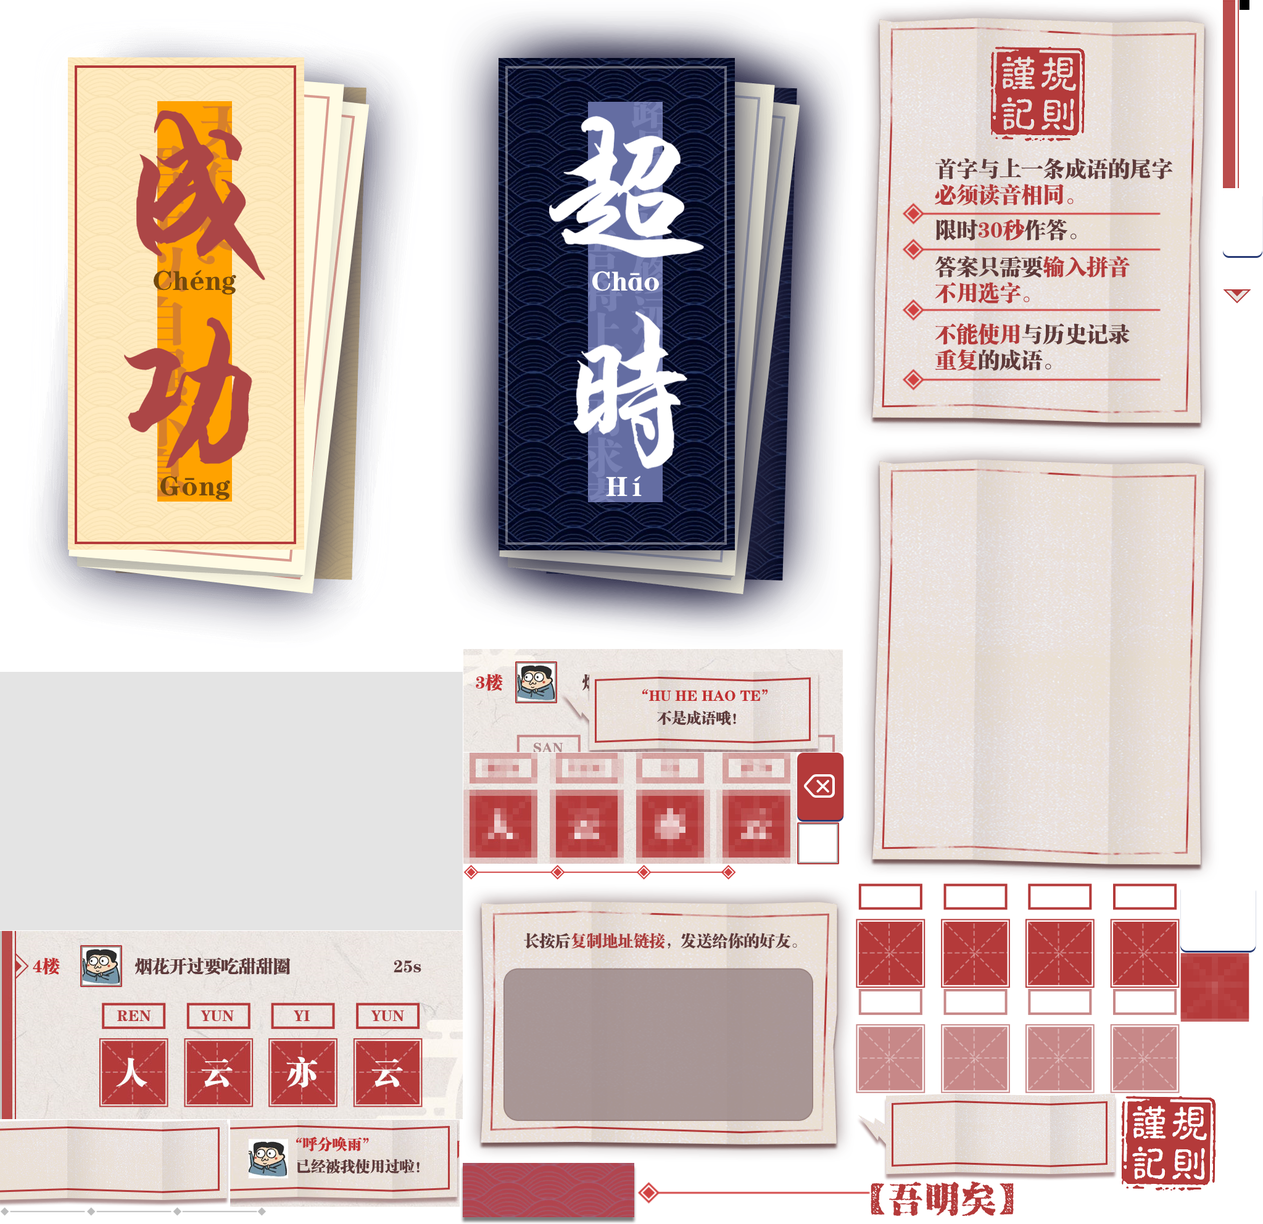
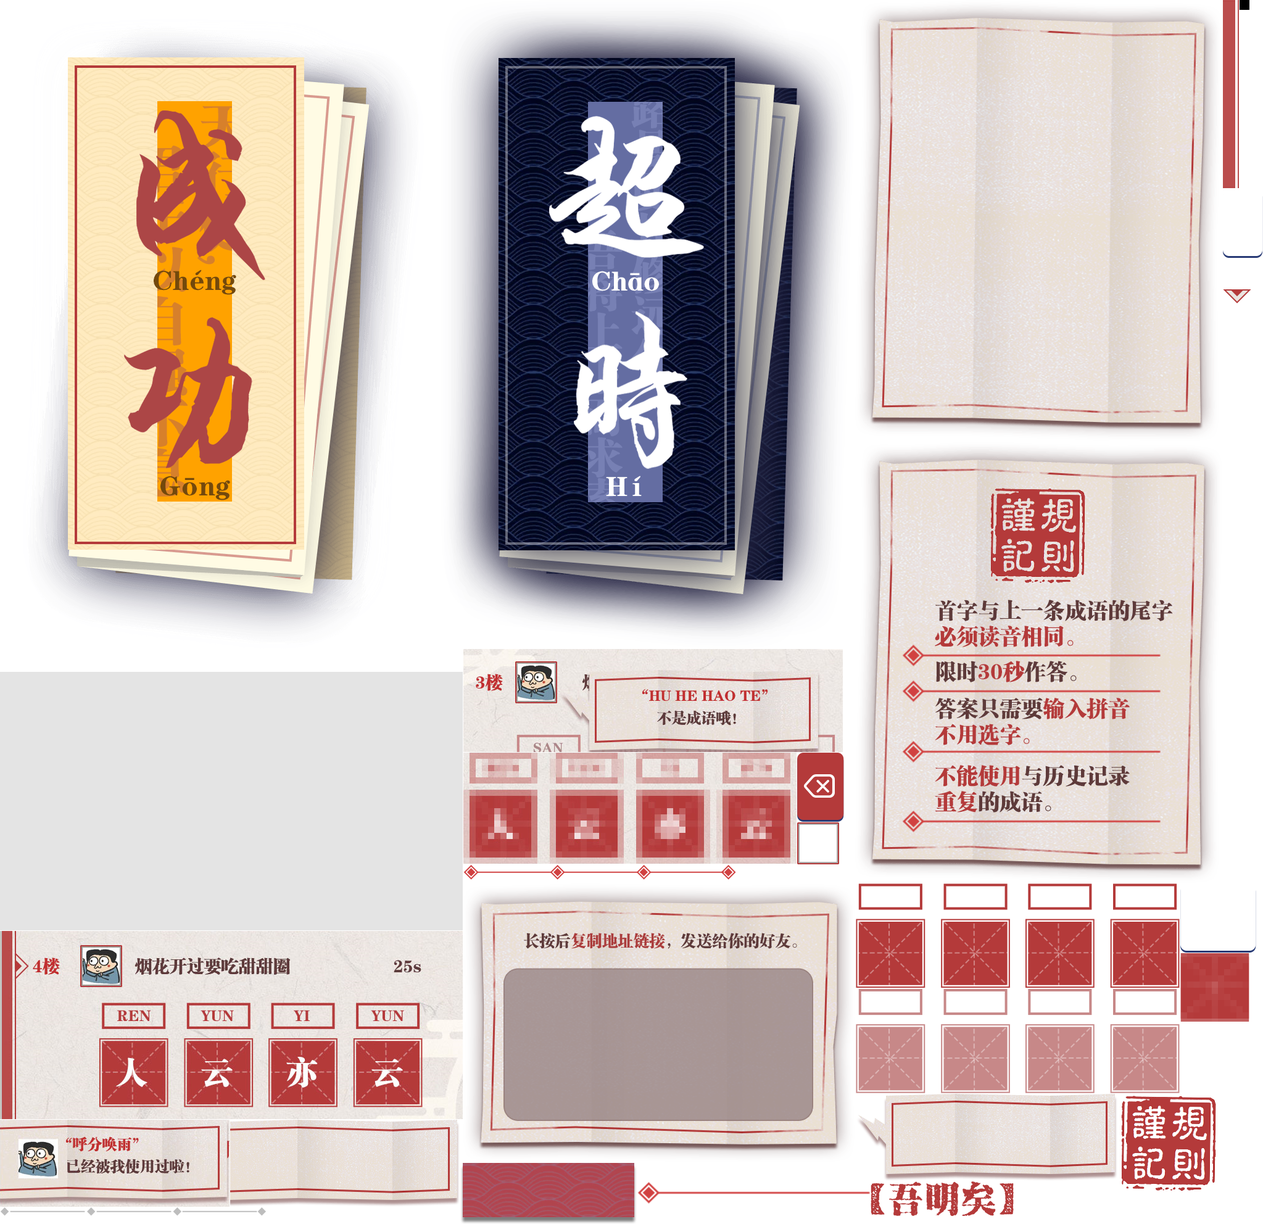
整体导出

Changed region(s): [[0.7079, 0.375, 0.9233, 0.6875], [0.7079, 0.0312, 0.9233, 0.3125], [0.0, 0.9062, 0.3693, 1.0]]

diff --git a/src/ui/layaUI.max.all.js b/src/ui/layaUI.max.all.js
@@ -104,10 +104,11 @@ var main_uiUI=(function(_super){
 
 			laya.ui.Component.prototype.createChildren.call(this);
 			this.createView(main_uiUI.uiView);
-
 		}
 
-		main_uiUI.uiView={"type":"View","props":{"width":750,"height":1334},"child":[{"type":"Image","props":{"y":0,"x":0,"skin":"pic/background.png"}},{"type":"Panel","props":{"y":142,"x":0,"width":750,"var":"pan_mytopic","height":860},"child":[{"type":"words","props":{"y":168,"x":115,"var":"lasttopicpanel","runtime":"ui.wordsUI"}},{"type":"View","props":{"y":164,"x":109,"var":"lasttopicPanel_unshown"},"child":[{"type":"Image","props":{"skin":"pic/lasttopic_unshown.png"}},{"type":"Label","props":{"y":197,"x":154,"text":"开始答题后揭晓","fontSize":30,"color":"#5d343a","bold":true,"align":"center"}}]},{"type":"View","props":{"y":430,"x":-4,"width":750,"height":123},"child":[{"type":"words","props":{"y":204,"x":115,"var":"topicpanel","runtime":"ui.wordsUI"}},{"type":"Label","props":{"y":96,"x":57,"var":"your_answer","text":"你的答案：","fontSize":27,"font":"SimSun","color":"#a7433e","bold":true}},{"type":"Label","props":{"y":-44,"x":399,"width":83,"var":"countDownNumber","valign":"middle","text":"30","height":75,"fontSize":80,"font":"SimSun","color":"#a7433e","bold":true,"align":"center"},"child":[{"type":"Label","props":{"y":7,"x":-110,"width":108,"var":"countdown","valign":"middle","text":"倒计时：","height":62,"fontSize":30,"color":"#a7433e","bold":true,"align":"center"}}]}]},{"type":"playerinfo","props":{"y":37,"x":43,"var":"mytopicplayerinfopanel","runtime":"ui.playerinfoUI"}}]},{"type":"game_ui","props":{"y":911,"x":0,"width":750,"var":"keyboard","height":419,"runtime":"ui.game_uiUI"}},{"type":"View","props":{"y":0,"x":0,"width":750,"var":"popup_success","height":1334},"child":[{"type":"Image","props":{"y":0,"x":0,"width":750,"skin":"pic/blackmask.png","height":1334,"alpha":0.8}},{"type":"Image","props":{"y":58,"x":53,"skin":"pic/popup_success.png"}},{"type":"Image","props":{"y":552,"x":65,"var":"shareUrl_dialog","skin":"pic/url_copy.png"},"child":[{"type":"TextInput","props":{"y":152,"x":79,"wordWrap":true,"width":476,"var":"shareUrl","multiline":true,"height":214,"fontSize":20,"editable":true}}]},{"type":"Button","props":{"y":1112,"x":71,"width":286,"var":"btn_share","labelSize":30,"labelFont":"SimSun","labelColors":"#ffffff","labelBold":true,"height":99},"child":[{"type":"Image","props":{"y":0,"x":0,"skin":"pic/button_red.png"}},{"type":"Label","props":{"y":16,"x":6,"width":276,"valign":"middle","text":"邀请好友答题","height":62,"fontSize":30,"font":"SimSun","color":"#fdffff","bold":true,"align":"center"}}]},{"type":"Button","props":{"y":1112,"x":410,"width":286,"var":"btn_rule_success","labelSize":30,"labelColors":"#ffffff","labelBold":true,"height":99},"child":[{"type":"Image","props":{"skin":"pic/button_red.png"}},{"type":"Label","props":{"y":16,"x":4,"width":276,"valign":"middle","text":"规则说明","height":62,"fontSize":30,"font":"SimSun","color":"#fdffff","bold":true,"align":"center"}}]}]},{"type":"View","props":{"y":0,"x":0,"width":750,"var":"popup_overtime","height":1334},"child":[{"type":"Image","props":{"y":10,"x":10,"width":750,"skin":"pic/blackmask.png","height":1334,"alpha":0.8}},{"type":"Image","props":{"y":52,"x":39,"skin":"pic/popup_overtime.png"}},{"type":"Button","props":{"y":1112,"x":71,"width":286,"var":"btn_moments","labelSize":30,"labelFont":"SimSun","labelColors":"#ffffff","labelBold":true,"height":99},"child":[{"type":"Image","props":{"y":0,"x":0,"skin":"pic/button_red.png"}},{"type":"Image","props":{"y":21,"x":24,"width":49,"skin":"pic/icon_monents.png","height":49}},{"type":"Label","props":{"y":16,"x":6,"width":276,"valign":"middle","text":" 向朋友求助","height":62,"fontSize":30,"font":"SimSun","color":"#fdffff","bold":true,"align":"center"}}]},{"type":"Button","props":{"y":1112,"x":410,"width":286,"var":"btn_rule_fail","labelSize":30,"labelColors":"#ffffff","labelBold":true,"height":99},"child":[{"type":"Image","props":{"skin":"pic/button_red.png"}},{"type":"Label","props":{"y":16,"x":6,"width":276,"valign":"middle","text":"规则说明","height":62,"fontSize":30,"font":"SimSun","color":"#fdffff","bold":true,"align":"center"}}]}]},{"type":"View","props":{"y":917,"x":0,"width":750,"var":"readyPanel","height":419},"child":[{"type":"Button","props":{"y":211,"x":417,"width":286,"var":"btn_rule_ready","labelSize":30,"labelColors":"#ffffff","labelBold":true,"height":99},"child":[{"type":"Image","props":{"skin":"pic/button_red.png"}},{"type":"Label","props":{"y":11,"x":7,"width":276,"valign":"middle","text":"规则说明","height":62,"fontSize":30,"font":"SimSun","color":"#fdffff","bold":true,"align":"center"}}]},{"type":"Button","props":{"y":211,"x":78,"width":286,"var":"btn_start","labelSize":30,"labelFont":"SimSun","labelColors":"#ffffff","labelBold":true,"labelAlign":"none","height":99},"child":[{"type":"Image","props":{"y":0,"x":0,"skin":"pic/button_red.png"}},{"type":"Label","props":{"y":-1,"x":3,"width":276,"valign":"middle","text":"开始答题","height":62,"fontSize":30,"font":"SimSun","color":"#fdffff","bold":true,"align":"center"}},{"type":"Label","props":{"y":29,"x":3,"width":276,"valign":"middle","text":"（限时30秒）","height":62,"fontSize":25,"font":"SimSun","color":"#fdffff","bold":true,"align":"center"}}]}]},{"type":"Panel","props":{"y":0,"x":0,"width":750,"var":"pan_result","height":1334},"child":[{"type":"Image","props":{"y":0,"x":0,"width":750,"skin":"pic/background.png","sizeGrid":"5,5,5,5","height":1334}},{"type":"List","props":{"y":0,"x":0,"width":750,"var":"lst_players","vScrollBarSkin":"pic/scrollbar/1p_trans.png","repeatY":10,"repeatX":1,"height":1334},"child":[{"type":"Box","props":{"y":0,"x":0,"width":750,"name":"render","height":305},"child":[{"type":"Image","props":{"y":0,"x":0,"visible":false,"skin":"pic/temp_listbox.png"}},{"type":"View","props":{"y":13,"x":117,"var":"_boxview","name":"boxview"},"child":[{"type":"words","props":{"y":104,"x":44,"name":"words","runtime":"ui.wordsUI"}},{"type":"Image","props":{"y":10,"x":14,"var":"_playericoframe","skin":"pic/player_avatar_bg.png","name":"playericoframe"},"child":[{"type":"Image","props":{"y":2,"x":2,"width":64,"var":"_playerico","name":"playerico","height":64}}]},{"type":"Label","props":{"y":28,"x":102,"var":"_playername","text":"这是一个人的名字","name":"playername","fontSize":30,"font":"SimSun","color":"#533c3b","bold":true}},{"type":"Label","props":{"y":30,"x":513,"width":36,"var":"_playertime","text":"30","name":"playertime","height":34,"fontSize":27,"font":"SimSun","color":"#533c3b","bold":true,"align":"right"},"child":[{"type":"Label","props":{"y":1,"x":34,"text":"s","fontSize":27,"font":"SimSun","color":"#533c3b","bold":true}}]}]},{"type":"Image","props":{"skin":"pic/list_scrollbar.png"}}]}]},{"type":"Button","props":{"y":1291,"x":0,"width":750,"var":"btn_record","skin":"main_ui/btn_ok.png","sizeGrid":"3,3,3,3","labelSize":50,"labelAlign":"center","height":44},"child":[{"type":"Image","props":{"skin":"pic/history_button_bg.png"}},{"type":"Label","props":{"y":10,"x":0,"width":750,"text":"点击关闭历史记录","height":27,"fontSize":27,"font":"SimSun","color":"#444242","bold":true,"align":"center"}}]}]},{"type":"View","props":{"y":394,"x":0,"width":372,"visible":false,"var":"toast","height":141},"child":[{"type":"Image","props":{"y":0,"x":0,"skin":"pic/tip_warning_bg.png"}},{"type":"Label","props":{"y":50,"x":106,"width":233,"var":"toastMsg","valign":"middle","text":"已经被我使用过啦！","height":59,"fontSize":25,"font":"SimSun","color":"#5d343a","bold":true,"align":"left"}},{"type":"Image","props":{"y":31,"x":30,"width":64,"var":"toast_avatar_pic","height":64}},{"type":"Label","props":{"y":15,"x":106,"width":233,"var":"toastMsg_words","valign":"middle","text":"“呼风唤雨”","height":59,"fontSize":25,"font":"SimSun","color":"#a7433e","bold":true,"align":"left"}}]},{"type":"View","props":{"y":232,"x":172,"width":421,"var":"chat","height":141},"child":[{"type":"Image","props":{"skin":"pic/tip_chat_bg.png"}},{"type":"Label","props":{"y":50,"x":60,"width":344,"var":"chatMsg","valign":"middle","text":"不是成语哦！","height":59,"fontSize":25,"font":"SimSun","color":"#5d343a","bold":true,"align":"center"}},{"type":"Label","props":{"y":11,"x":61,"width":344,"var":"chatMsg_pingyin","valign":"middle","text":"\"HU HA HU HA\"","height":59,"fontSize":25,"font":"SimSun","color":"#a7433e","bold":true,"align":"center"}}]},{"type":"Button","props":{"y":0,"x":0,"width":750,"var":"btn_enter_history","skin":"main_ui/btn_ok.png","sizeGrid":"3,3,3,3","labelSize":50,"labelAlign":"center","height":44},"child":[{"type":"Image","props":{"skin":"pic/history_button_bg.png"}},{"type":"Label","props":{"y":10,"x":0,"width":750,"text":"点击查看历史记录","height":27,"fontSize":27,"font":"SimSun","color":"#444242","bold":true,"align":"center"}}]}]};
+		STATICATTR$(main_uiUI,
+		['uiView',function(){return this.uiView={"type":"View","props":{"width":750,"height":1334},"child":[{"type":"Image","props":{"y":0,"x":0,"skin":"pic/background.png"}},{"type":"Panel","props":{"y":142,"x":0,"width":750,"var":"pan_mytopic","height":860},"child":[{"type":"words","props":{"y":168,"x":115,"var":"lasttopicpanel","runtime":"ui.wordsUI"}},{"type":"View","props":{"y":164,"x":109,"var":"lasttopicPanel_unshown"},"child":[{"type":"Image","props":{"skin":"pic/lasttopic_unshown.png"}},{"type":"Label","props":{"y":197,"x":154,"text":"开始答题后揭晓","fontSize":30,"color":"#5d343a","bold":true,"align":"center"}}]},{"type":"View","props":{"y":430,"x":-4,"width":750,"height":123},"child":[{"type":"words","props":{"y":204,"x":115,"var":"topicpanel","runtime":"ui.wordsUI"}},{"type":"Label","props":{"y":96,"x":57,"var":"your_answer","text":"你的答案：","fontSize":27,"font":"SimSun","color":"#a7433e","bold":true}},{"type":"Label","props":{"y":-44,"x":399,"width":83,"var":"countDownNumber","valign":"middle","text":"30","height":75,"fontSize":80,"font":"SimSun","color":"#a7433e","bold":true,"align":"center"},"child":[{"type":"Label","props":{"y":7,"x":-110,"width":108,"var":"countdown","valign":"middle","text":"倒计时：","height":62,"fontSize":30,"color":"#a7433e","bold":true,"align":"center"}}]}]},{"type":"playerinfo","props":{"y":37,"x":43,"var":"mytopicplayerinfopanel","runtime":"ui.playerinfoUI"}}]},{"type":"game_ui","props":{"y":911,"x":0,"width":750,"var":"keyboard","height":419,"runtime":"ui.game_uiUI"}},{"type":"View","props":{"y":0,"x":0,"width":750,"var":"popup_success","height":1334},"child":[{"type":"Image","props":{"y":0,"x":0,"width":750,"skin":"pic/blackmask.png","height":1334,"alpha":0.8}},{"type":"Image","props":{"y":58,"x":53,"skin":"pic/popup_success.png"}},{"type":"Image","props":{"y":552,"x":65,"var":"shareUrl_dialog","skin":"pic/url_copy.png"},"child":[{"type":"TextInput","props":{"y":152,"x":79,"wordWrap":true,"width":476,"var":"shareUrl","multiline":true,"height":214,"fontSize":20,"editable":true}}]},{"type":"Button","props":{"y":1112,"x":71,"width":286,"var":"btn_share","labelSize":30,"labelFont":"SimSun","labelColors":"#ffffff","labelBold":true,"height":99},"child":[{"type":"Image","props":{"y":0,"x":0,"skin":"pic/button_red.png"}},{"type":"Label","props":{"y":16,"x":6,"width":276,"valign":"middle","text":"邀请好友答题","height":62,"fontSize":30,"font":"SimSun","color":"#fdffff","bold":true,"align":"center"}}]},{"type":"Button","props":{"y":1112,"x":410,"width":286,"var":"btn_rule_success","labelSize":30,"labelColors":"#ffffff","labelBold":true,"height":99},"child":[{"type":"Image","props":{"skin":"pic/button_red.png"}},{"type":"Label","props":{"y":16,"x":4,"width":276,"valign":"middle","text":"规则说明","height":62,"fontSize":30,"font":"SimSun","color":"#fdffff","bold":true,"align":"center"}}]}]},{"type":"View","props":{"y":0,"x":0,"width":750,"var":"popup_overtime","height":1334},"child":[{"type":"Image","props":{"y":10,"x":10,"width":750,"skin":"pic/blackmask.png","height":1334,"alpha":0.8}},{"type":"Image","props":{"y":52,"x":39,"skin":"pic/popup_overtime.png"}},{"type":"Button","props":{"y":1112,"x":71,"width":286,"var":"btn_moments","labelSize":30,"labelFont":"SimSun","labelColors":"#ffffff","labelBold":true,"height":99},"child":[{"type":"Image","props":{"y":0,"x":0,"skin":"pic/button_red.png"}},{"type":"Image","props":{"y":21,"x":24,"width":49,"skin":"pic/icon_monents.png","height":49}},{"type":"Label","props":{"y":16,"x":6,"width":276,"valign":"middle","text":" 向朋友求助","height":62,"fontSize":30,"font":"SimSun","color":"#fdffff","bold":true,"align":"center"}}]},{"type":"Button","props":{"y":1112,"x":410,"width":286,"var":"btn_rule_fail","labelSize":30,"labelColors":"#ffffff","labelBold":true,"height":99},"child":[{"type":"Image","props":{"skin":"pic/button_red.png"}},{"type":"Label","props":{"y":16,"x":6,"width":276,"valign":"middle","text":"规则说明","height":62,"fontSize":30,"font":"SimSun","color":"#fdffff","bold":true,"align":"center"}}]}]},{"type":"View","props":{"y":917,"x":0,"width":750,"var":"readyPanel","height":419},"child":[{"type":"Button","props":{"y":211,"x":417,"width":286,"var":"btn_rule_ready","labelSize":30,"labelColors":"#ffffff","labelBold":true,"height":99},"child":[{"type":"Image","props":{"skin":"pic/button_red.png"}},{"type":"Label","props":{"y":11,"x":7,"width":276,"valign":"middle","text":"规则说明","height":62,"fontSize":30,"font":"SimSun","color":"#fdffff","bold":true,"align":"center"}}]},{"type":"Button","props":{"y":211,"x":78,"width":286,"var":"btn_start","labelSize":30,"labelFont":"SimSun","labelColors":"#ffffff","labelBold":true,"labelAlign":"none","height":99},"child":[{"type":"Image","props":{"y":0,"x":0,"skin":"pic/button_red.png"}},{"type":"Label","props":{"y":-1,"x":3,"width":276,"valign":"middle","text":"开始答题","height":62,"fontSize":30,"font":"SimSun","color":"#fdffff","bold":true,"align":"center"}},{"type":"Label","props":{"y":29,"x":3,"width":276,"valign":"middle","text":"（限时30秒）","height":62,"fontSize":25,"font":"SimSun","color":"#fdffff","bold":true,"align":"center"}}]}]},{"type":"Panel","props":{"y":0,"x":0,"width":750,"var":"pan_result","height":1334},"child":[{"type":"Image","props":{"y":0,"x":0,"width":750,"skin":"pic/background.png","sizeGrid":"5,5,5,5","height":1334}},{"type":"List","props":{"y":0,"x":0,"width":750,"var":"lst_players","vScrollBarSkin":"pic/scrollbar/1p_trans.png","repeatY":10,"repeatX":1,"height":1334},"child":[{"type":"Box","props":{"y":0,"x":0,"width":750,"name":"render","height":305},"child":[{"type":"Image","props":{"y":0,"x":0,"visible":false,"skin":"pic/temp_listbox.png"}},{"type":"View","props":{"y":13,"x":117,"var":"_boxview","name":"boxview"},"child":[{"type":"words","props":{"y":104,"x":44,"name":"words","runtime":"ui.wordsUI"}},{"type":"Image","props":{"y":10,"x":14,"var":"_playericoframe","skin":"pic/player_avatar_bg.png","name":"playericoframe"},"child":[{"type":"Image","props":{"y":2,"x":2,"width":64,"var":"_playerico","name":"playerico","height":64}}]},{"type":"Label","props":{"y":28,"x":102,"var":"_playername","text":"这是一个人的名字","name":"playername","fontSize":30,"font":"SimSun","color":"#533c3b","bold":true}},{"type":"Label","props":{"y":30,"x":513,"width":36,"var":"_playertime","text":"30","name":"playertime","height":34,"fontSize":27,"font":"SimSun","color":"#533c3b","bold":true,"align":"right"},"child":[{"type":"Label","props":{"y":1,"x":34,"text":"s","fontSize":27,"font":"SimSun","color":"#533c3b","bold":true}}]}]},{"type":"Image","props":{"skin":"pic/list_scrollbar.png"}}]}]},{"type":"Button","props":{"y":1291,"x":0,"width":750,"var":"btn_record","skin":"main_ui/btn_ok.png","sizeGrid":"3,3,3,3","labelSize":50,"labelAlign":"center","height":44},"child":[{"type":"Image","props":{"skin":"pic/history_button_bg.png"}},{"type":"Label","props":{"y":10,"x":0,"width":750,"text":"点击关闭历史记录","height":27,"fontSize":27,"font":"SimSun","color":"#444242","bold":true,"align":"center"}}]}]},{"type":"View","props":{"y":394,"x":0,"width":372,"visible":false,"var":"toast","height":141},"child":[{"type":"Image","props":{"y":0,"x":0,"skin":"pic/tip_warning_bg.png"}},{"type":"Label","props":{"y":50,"x":106,"width":233,"var":"toastMsg","valign":"middle","text":"已经被我使用过啦！","height":59,"fontSize":25,"font":"SimSun","color":"#5d343a","bold":true,"align":"left"}},{"type":"Image","props":{"y":31,"x":30,"width":64,"var":"toast_avatar_pic","height":64}},{"type":"Label","props":{"y":15,"x":106,"width":233,"var":"toastMsg_words","valign":"middle","text":"“呼风唤雨”","height":59,"fontSize":25,"font":"SimSun","color":"#a7433e","bold":true,"align":"left"}}]},{"type":"View","props":{"y":232,"x":172,"width":421,"var":"chat","height":141},"child":[{"type":"Image","props":{"skin":"pic/tip_chat_bg.png"}},{"type":"Label","props":{"y":50,"x":60,"width":344,"var":"chatMsg","valign":"middle","text":"不是成语哦！","height":59,"fontSize":25,"font":"SimSun","color":"#5d343a","bold":true,"align":"center"}},{"type":"Label","props":{"y":11,"x":61,"width":344,"var":"chatMsg_pingyin","valign":"middle","text":"\"HU HA HU HA\"","height":59,"fontSize":25,"font":"SimSun","color":"#a7433e","bold":true,"align":"center"}}]},{"type":"Button","props":{"y":0,"x":0,"width":750,"var":"btn_enter_history","skin":"main_ui/btn_ok.png","sizeGrid":"3,3,3,3","labelSize":50,"labelAlign":"center","height":44},"child":[{"type":"Image","props":{"skin":"pic/history_button_bg.png"}},{"type":"Label","props":{"y":10,"x":0,"width":750,"text":"点击查看历史记录","height":27,"fontSize":27,"font":"SimSun","color":"#444242","bold":true,"align":"center"}}]}]};}
+		]);
 		return main_uiUI;
 	})(View);
 var playerinfoUI=(function(_super){
@@ -186,9 +187,10 @@ var wordsUI=(function(_super){
 		    
 			laya.ui.Component.prototype.createChildren.call(this);
 			this.createView(wordsUI.uiView);
-
 		}
 
-		wordsUI.uiView={"type":"View","props":{"width":525,"height":170},"child":[{"type":"View","props":{"y":0,"x":0,"width":525,"visible":true,"height":170},"child":[{"type":"Image","props":{"y":0,"x":0,"var":"bg_unlock","skin":"pic/words_bg_unlock.png"}},{"type":"Image","props":{"var":"bg_locked","skin":"pic/words_bg_locked.png"}},{"type":"Label","props":{"y":0,"x":5,"width":104,"var":"pinyin1","valign":"middle","text":"REN","height":43,"fontSize":30,"font":"SimSun","color":"#a7433e","bold":true,"align":"center"},"child":[{"type":"Image","props":{"y":-18,"x":26,"visible":false,"var":"pinyin_arr1","skin":"pic/list_scrollbar_pointer.png"}}]},{"type":"Label","props":{"y":0,"x":142,"width":104,"var":"pinyin2","valign":"middle","text":"REN","name":"pinyin2","height":43,"fontSize":30,"font":"SimSun","color":"#a7433e","bold":true,"align":"center"},"child":[{"type":"Image","props":{"y":-18,"x":26,"visible":false,"var":"pinyin_arr2","skin":"pic/list_scrollbar_pointer.png"}}]},{"type":"Label","props":{"y":0,"x":279,"width":104,"var":"pinyin3","valign":"middle","text":"REN","name":"pinyin3","height":43,"fontSize":30,"font":"SimSun","color":"#a7433e","bold":true,"align":"center"},"child":[{"type":"Image","props":{"y":-18,"x":26,"visible":false,"var":"pinyin_arr3","skin":"pic/list_scrollbar_pointer.png"}}]},{"type":"Label","props":{"y":0,"x":416,"width":104,"var":"pinyin4","valign":"middle","text":"REN","name":"pinyin4","height":43,"fontSize":30,"font":"SimSun","color":"#a7433e","bold":true,"align":"center"},"child":[{"type":"Image","props":{"y":-18,"x":26,"visible":false,"var":"pinyin_arr4","skin":"pic/list_scrollbar_pointer.png"}}]},{"type":"Label","props":{"y":62,"x":5,"width":103,"var":"word1","valign":"middle","text":"人","height":103,"fontSize":55,"font":"SimSun","color":"#FFFCDD","bold":true,"align":"center"},"child":[{"type":"Label","props":{"y":0,"x":206,"width":103,"var":"flashnode1","valign":"middle","height":103,"fontSize":55,"font":"SimSun","color":"#FFFCDD","centerX":0,"bold":true,"align":"center"}}]},{"type":"Label","props":{"y":62,"x":142,"width":103,"var":"word2","valign":"middle","text":"？","height":103,"fontSize":55,"font":"SimSun","color":"#FFFCDD","bold":true,"align":"center"},"child":[{"type":"Label","props":{"y":0,"x":69,"width":103,"var":"flashnode2","valign":"middle","height":103,"fontSize":55,"font":"SimSun","color":"#FFFCDD","centerX":0,"bold":true,"align":"center"}}]},{"type":"Label","props":{"y":62,"x":279,"width":103,"var":"word3","valign":"middle","text":"？","height":103,"fontSize":55,"font":"SimSun","color":"#FFFCDD","bold":true,"align":"center"},"child":[{"type":"Label","props":{"y":0,"x":-68,"width":103,"var":"flashnode3","valign":"middle","height":103,"fontSize":55,"font":"SimSun","color":"#FFFCDD","centerX":0,"bold":true,"align":"center"}}]},{"type":"Label","props":{"y":62,"x":416,"width":103,"var":"word4","valign":"middle","text":"？","height":103,"fontSize":55,"font":"SimSun","color":"#FFFCDD","bold":true,"align":"center"},"child":[{"type":"Label","props":{"y":0,"x":-205,"width":103,"var":"flashnode4","valign":"middle","height":103,"fontSize":55,"font":"SimSun","color":"#FFFCDD","centerX":0,"bold":true,"align":"center"}}]}]},{"type":"Image","props":{"y":2,"x":-3,"visible":false,"var":"_mask","skin":"pic/lasttopic_unshown.png"}}]};
+		STATICATTR$(wordsUI,
+		['uiView',function(){return this.uiView={"type":"View","props":{"width":525,"height":170},"child":[{"type":"View","props":{"y":0,"x":0,"width":525,"visible":true,"height":170},"child":[{"type":"Image","props":{"y":0,"x":0,"var":"bg_unlock","skin":"pic/words_bg_unlock.png"}},{"type":"Image","props":{"var":"bg_locked","skin":"pic/words_bg_locked.png"}},{"type":"Label","props":{"y":0,"x":5,"width":104,"var":"pinyin1","valign":"middle","text":"REN","height":43,"fontSize":30,"font":"SimSun","color":"#a7433e","bold":true,"align":"center"},"child":[{"type":"Image","props":{"y":-18,"x":26,"visible":false,"var":"pinyin_arr1","skin":"pic/list_scrollbar_pointer.png"}}]},{"type":"Label","props":{"y":0,"x":142,"width":104,"var":"pinyin2","valign":"middle","text":"REN","name":"pinyin2","height":43,"fontSize":30,"font":"SimSun","color":"#a7433e","bold":true,"align":"center"},"child":[{"type":"Image","props":{"y":-18,"x":26,"visible":false,"var":"pinyin_arr2","skin":"pic/list_scrollbar_pointer.png"}}]},{"type":"Label","props":{"y":0,"x":279,"width":104,"var":"pinyin3","valign":"middle","text":"REN","name":"pinyin3","height":43,"fontSize":30,"font":"SimSun","color":"#a7433e","bold":true,"align":"center"},"child":[{"type":"Image","props":{"y":-18,"x":26,"visible":false,"var":"pinyin_arr3","skin":"pic/list_scrollbar_pointer.png"}}]},{"type":"Label","props":{"y":0,"x":416,"width":104,"var":"pinyin4","valign":"middle","text":"REN","name":"pinyin4","height":43,"fontSize":30,"font":"SimSun","color":"#a7433e","bold":true,"align":"center"},"child":[{"type":"Image","props":{"y":-18,"x":26,"visible":false,"var":"pinyin_arr4","skin":"pic/list_scrollbar_pointer.png"}}]},{"type":"Label","props":{"y":62,"x":5,"width":103,"var":"word1","valign":"middle","text":"人","height":103,"fontSize":55,"font":"SimSun","color":"#FFFCDD","bold":true,"align":"center"},"child":[{"type":"Label","props":{"y":0,"x":206,"width":103,"var":"flashnode1","valign":"middle","height":103,"fontSize":55,"font":"SimSun","color":"#FFFCDD","centerX":0,"bold":true,"align":"center"}}]},{"type":"Label","props":{"y":62,"x":142,"width":103,"var":"word2","valign":"middle","text":"？","height":103,"fontSize":55,"font":"SimSun","color":"#FFFCDD","bold":true,"align":"center"},"child":[{"type":"Label","props":{"y":0,"x":69,"width":103,"var":"flashnode2","valign":"middle","height":103,"fontSize":55,"font":"SimSun","color":"#FFFCDD","centerX":0,"bold":true,"align":"center"}}]},{"type":"Label","props":{"y":62,"x":279,"width":103,"var":"word3","valign":"middle","text":"？","height":103,"fontSize":55,"font":"SimSun","color":"#FFFCDD","bold":true,"align":"center"},"child":[{"type":"Label","props":{"y":0,"x":-68,"width":103,"var":"flashnode3","valign":"middle","height":103,"fontSize":55,"font":"SimSun","color":"#FFFCDD","centerX":0,"bold":true,"align":"center"}}]},{"type":"Label","props":{"y":62,"x":416,"width":103,"var":"word4","valign":"middle","text":"？","height":103,"fontSize":55,"font":"SimSun","color":"#FFFCDD","bold":true,"align":"center"},"child":[{"type":"Label","props":{"y":0,"x":-205,"width":103,"var":"flashnode4","valign":"middle","height":103,"fontSize":55,"font":"SimSun","color":"#FFFCDD","centerX":0,"bold":true,"align":"center"}}]}]},{"type":"Image","props":{"y":2,"x":-3,"visible":false,"var":"_mask","skin":"pic/lasttopic_unshown.png"}}]};}
+		]);
 		return wordsUI;
 	})(View);
